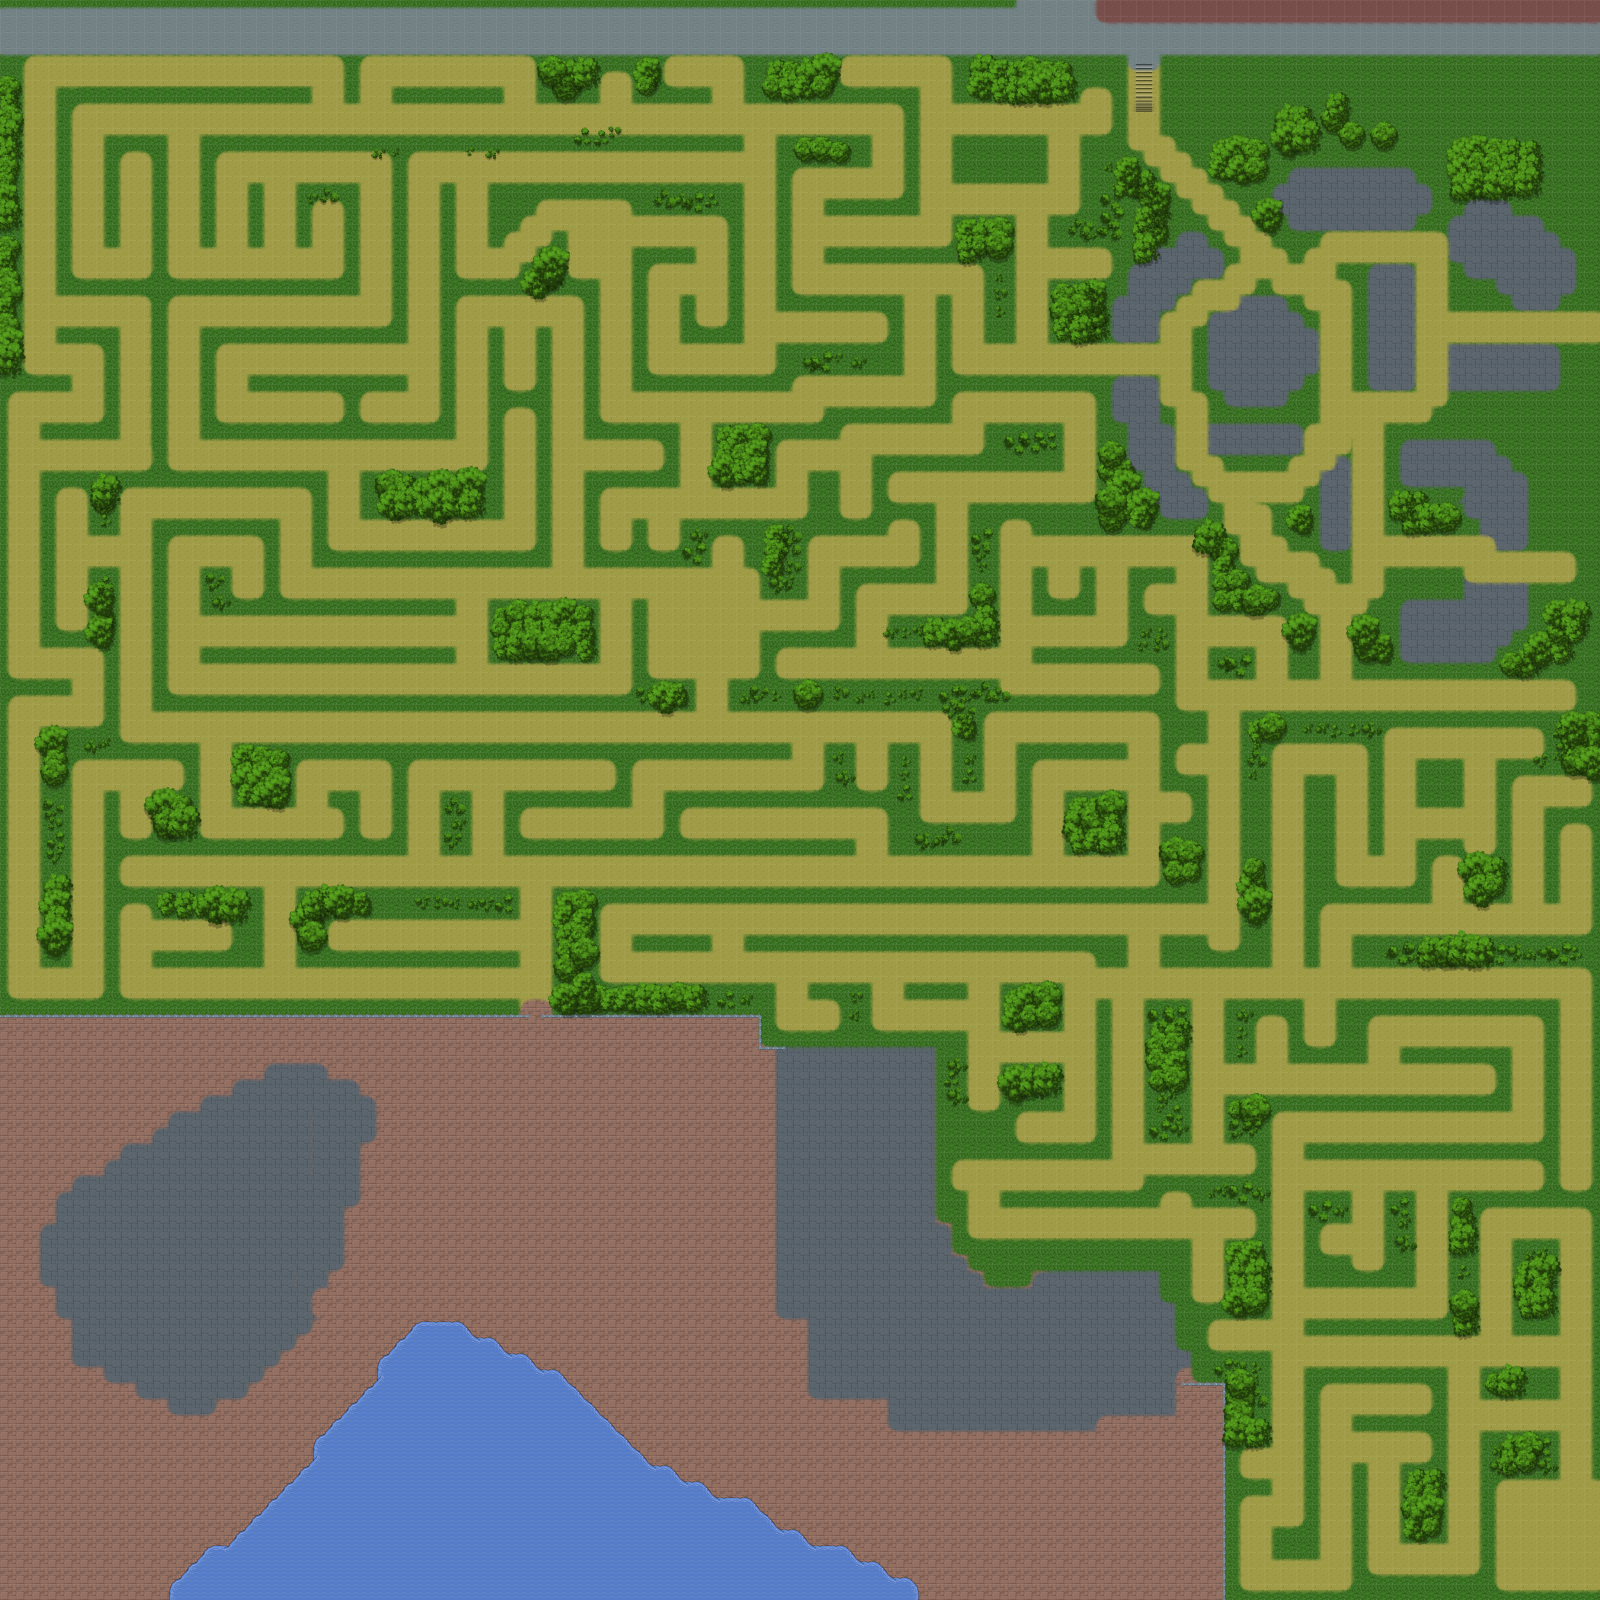
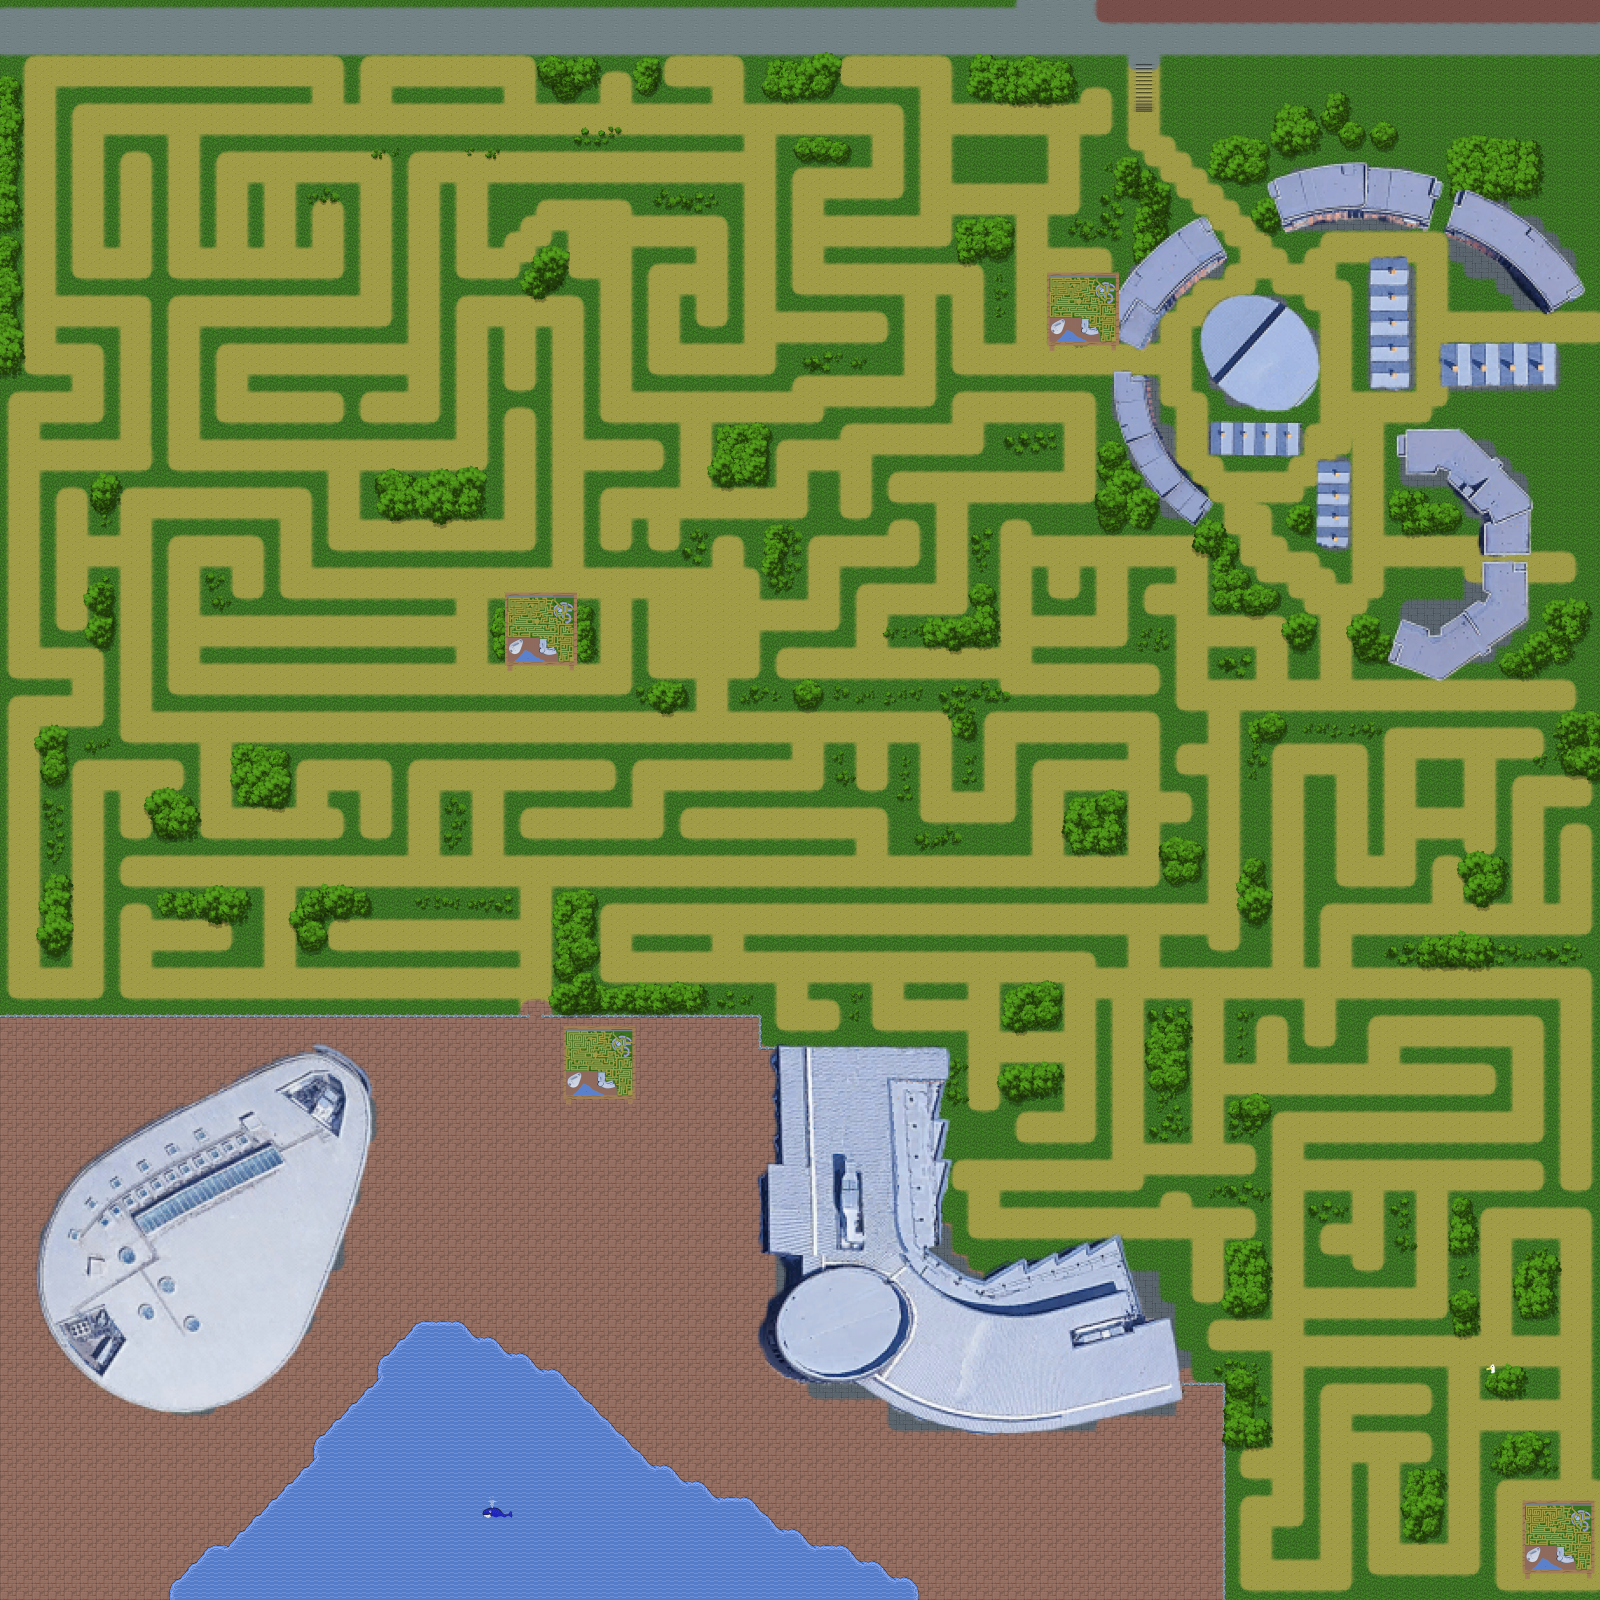
feat: stop footsteps when game over. feat: replace map img

diff --git a/core/src/main/java/io/github/team6ENG/EscapeUni/GameScreen.java b/core/src/main/java/io/github/team6ENG/EscapeUni/GameScreen.java
@@ -693,6 +693,7 @@ public class GameScreen implements Screen {
     public void gameOver(){
         gameoverTrigger = true;
         audioManager.stopMusic();
+        audioManager.stopFootsteps();
         Gdx.app.postRunnable(() -> game.setScreen(
             new GameOverScreen(game, "Sorry you missed the bus, better luck next time")
         ));
